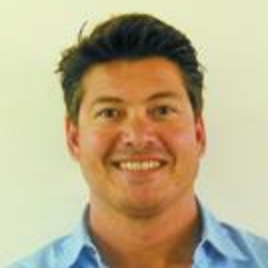
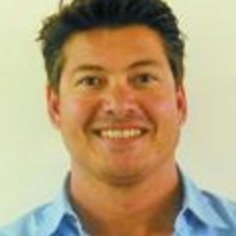
Team photos: crop so faces are a uniform size (originals kept in src/assets/team/originals)

diff --git a/scripts/team/faces.swift b/scripts/team/faces.swift
@@ -1,0 +1,16 @@
+// Prints the largest face rectangle in each image as: file x y w h (pixels, origin top-left).
+// Usage: swift faces.swift img1.jpg img2.jpg ...
+import Foundation
+import Vision
+import AppKit
+
+for path in CommandLine.arguments.dropFirst() {
+    guard let img = NSImage(contentsOfFile: path),
+          let cg = img.cgImage(forProposedRect: nil, context: nil, hints: nil) else { print(path, "unreadable"); continue }
+    let req = VNDetectFaceRectanglesRequest()
+    try? VNImageRequestHandler(cgImage: cg, options: [:]).perform([req])
+    let W = Double(cg.width), H = Double(cg.height)
+    guard let f = (req.results ?? []).max(by: { $0.boundingBox.width < $1.boundingBox.width }) else { print(path, "noface"); continue }
+    let b = f.boundingBox
+    print(path, Int(b.minX * W), Int((1 - b.maxY) * H), Int(b.width * W), Int(b.height * H), cg.width, cg.height)
+}

diff --git a/scripts/team/normalize_faces.py b/scripts/team/normalize_faces.py
@@ -1,0 +1,36 @@
+"""Crop team photos so faces are a similar size and position in the round avatars.
+
+Reads the untouched photos in src/assets/team/originals/, finds the face with
+macOS Vision (faces.swift), and writes square crops to src/assets/team/ in which
+the face is about FACE_FRAC of the width, centred horizontally. Photos whose face
+is already larger than that are only re-centred (we can't zoom out past the edge).
+
+Run from the repo root:  python3 scripts/team/normalize_faces.py [name.jpg ...]
+"""
+import subprocess, sys
+from pathlib import Path
+from PIL import Image, ImageOps
+
+FACE_FRAC = 0.55   # face width / crop width
+FACE_Y = 0.45      # face centre height / crop height (a bit above middle)
+MAX_PX = 600       # output size cap (avatars display at <= 128px, 2x = 256px)
+
+src = Path('src/assets/team/originals')
+dst = Path('src/assets/team')
+files = [src / n for n in sys.argv[1:]] or sorted(src.glob('*.jpg'))
+
+out = subprocess.run(['swift', 'scripts/team/faces.swift', *map(str, files)], capture_output=True, text=True, check=True).stdout
+for line in out.splitlines():
+    path, *nums = line.split()
+    if len(nums) != 6:
+        print(f'{path}: no face found, copied unchanged'); Image.open(path).save(dst / Path(path).name); continue
+    x, y, w, h, W, H = map(int, nums)
+    img = ImageOps.exif_transpose(Image.open(path)).convert('RGB')
+    S = min(int(w / FACE_FRAC), W, H)
+    cx, cy = x + w / 2, y + h / 2
+    left = min(max(cx - S / 2, 0), W - S)
+    top = min(max(cy - FACE_Y * S, 0), H - S)
+    crop = img.crop((round(left), round(top), round(left) + S, round(top) + S))
+    if S > MAX_PX: crop = crop.resize((MAX_PX, MAX_PX), Image.LANCZOS)
+    crop.save(dst / Path(path).name, quality=90)
+    print(f'{Path(path).name}: face {w / min(W, H):.2f} -> {w / S:.2f} of width, {crop.size[0]}px')
